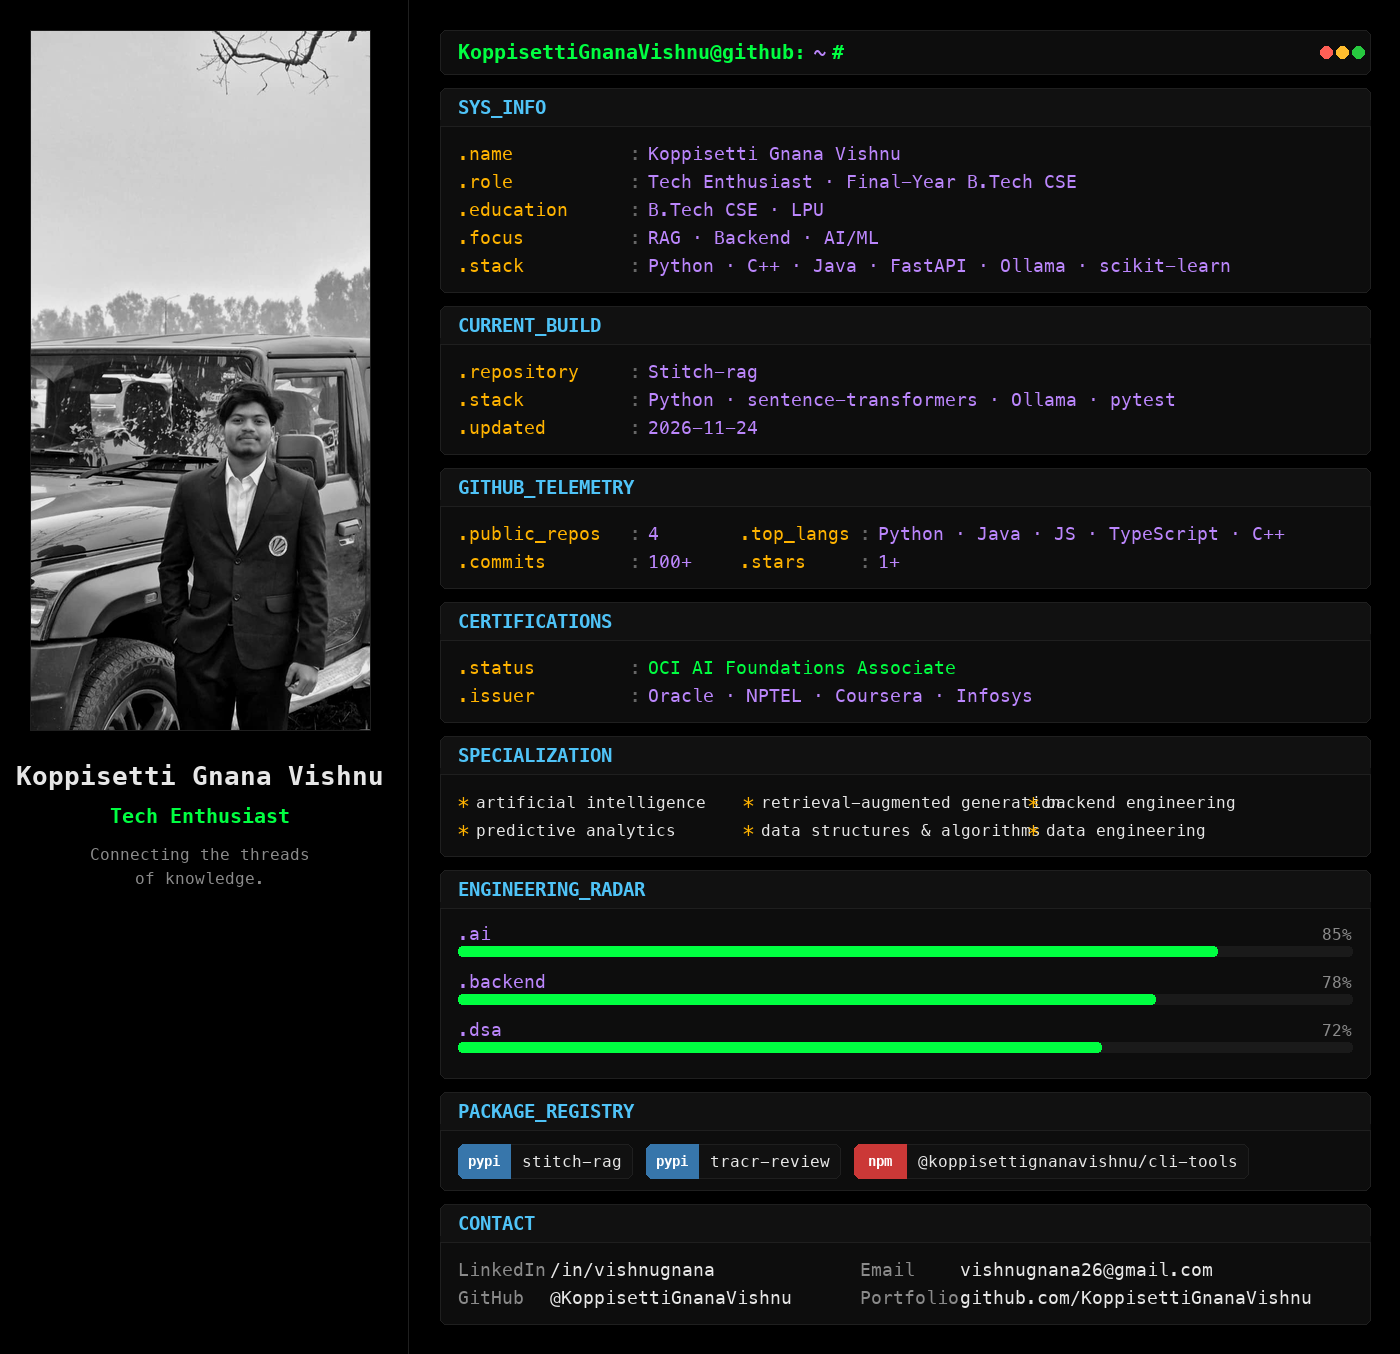
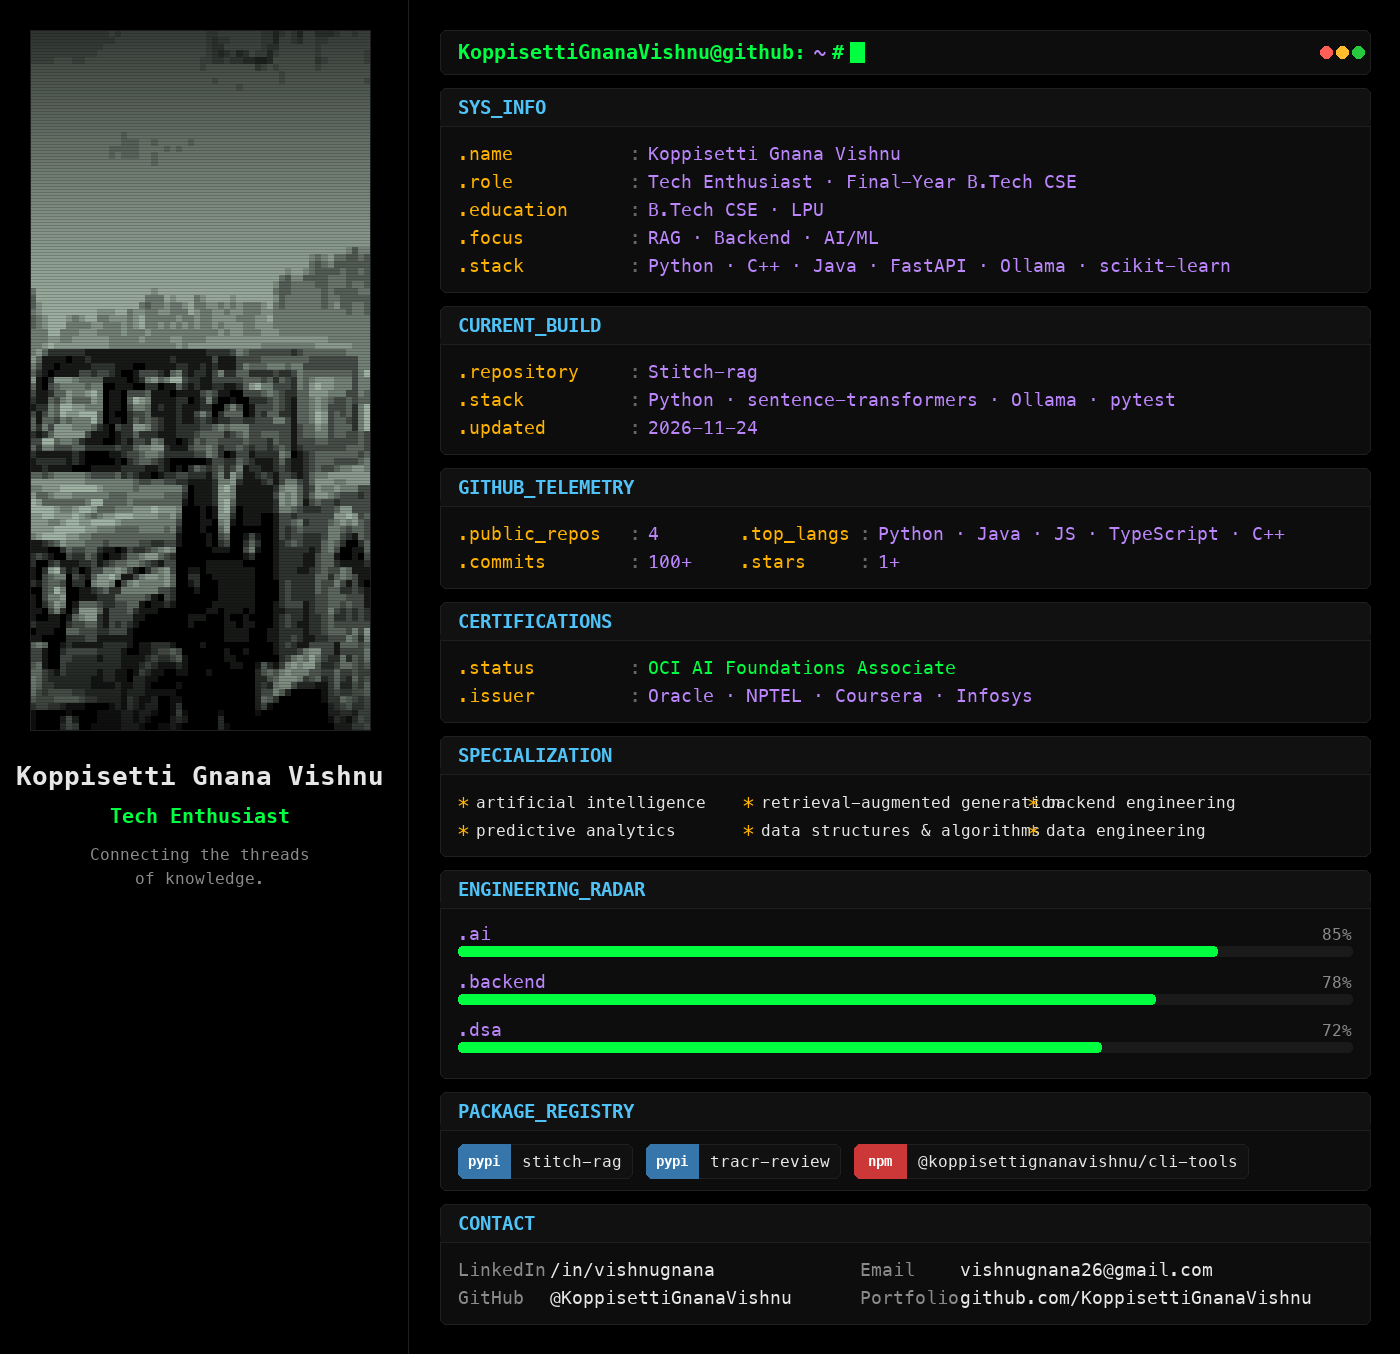
Pixel-art photo with CRT scan animation and blinking cursor

Changed region(s): [[0.0, 0.0, 0.2764, 0.5583], [0.5836, 0.031, 0.6143, 0.062], [0.1536, 0.5273, 0.1843, 0.5583]]

diff --git a/README.md b/README.md
@@ -1,3 +1,3 @@
 <div align="center">
-  <img alt="Koppisetti Gnana Vishnu — terminal profile" src="assets/profile_card.png" width="100%">
+  <img alt="Koppisetti Gnana Vishnu — pixel terminal profile" src="assets/profile_card.gif" width="100%">
 </div>
